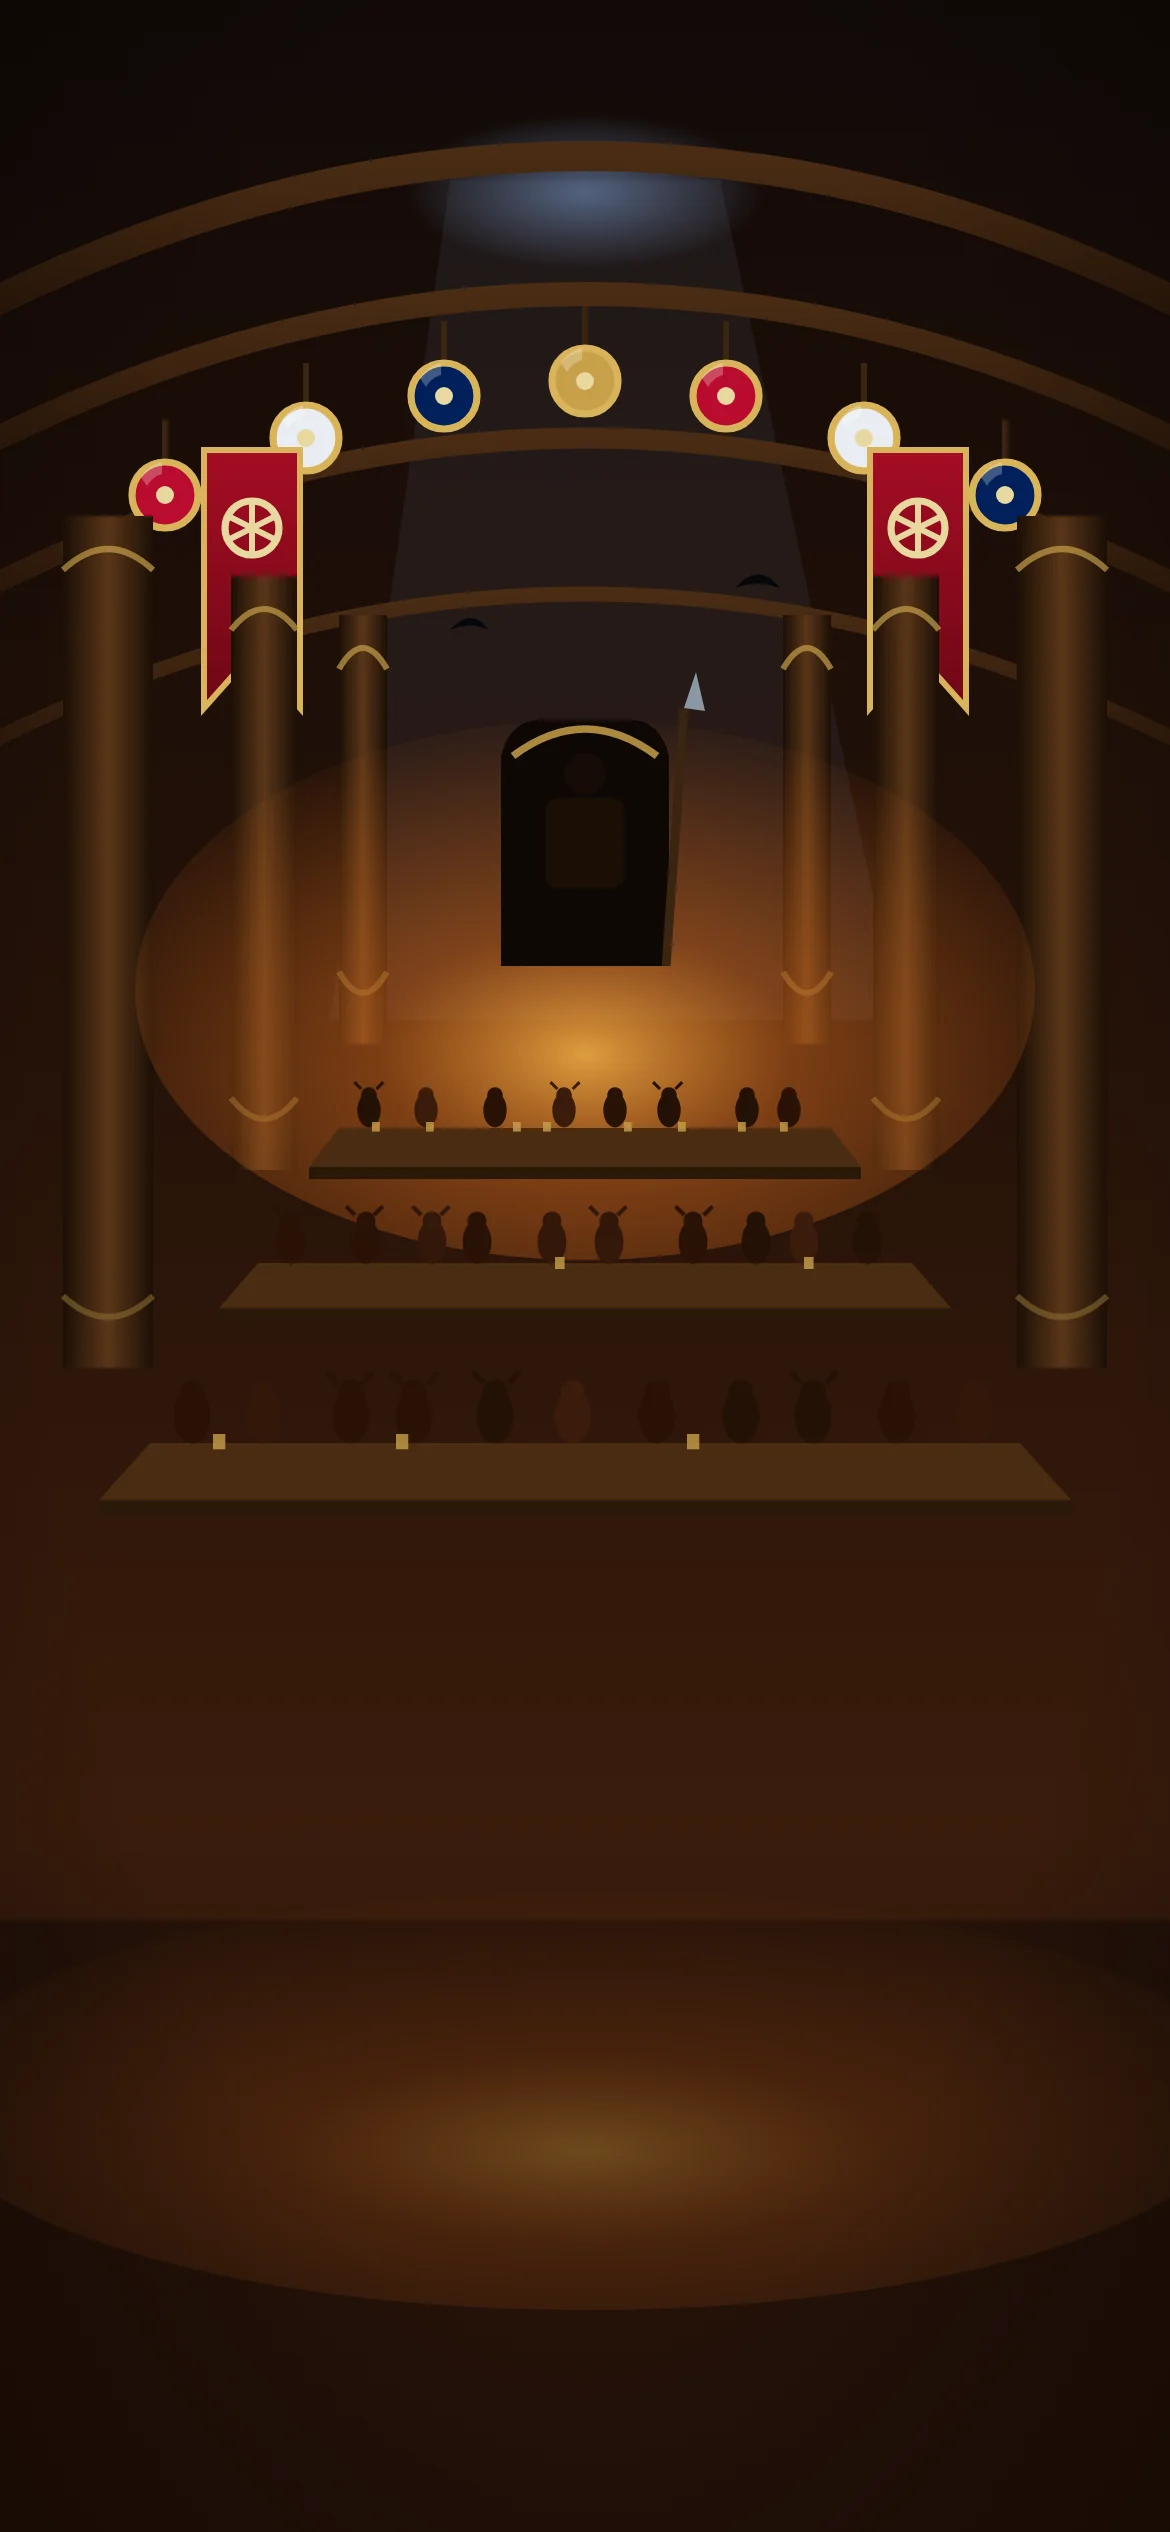
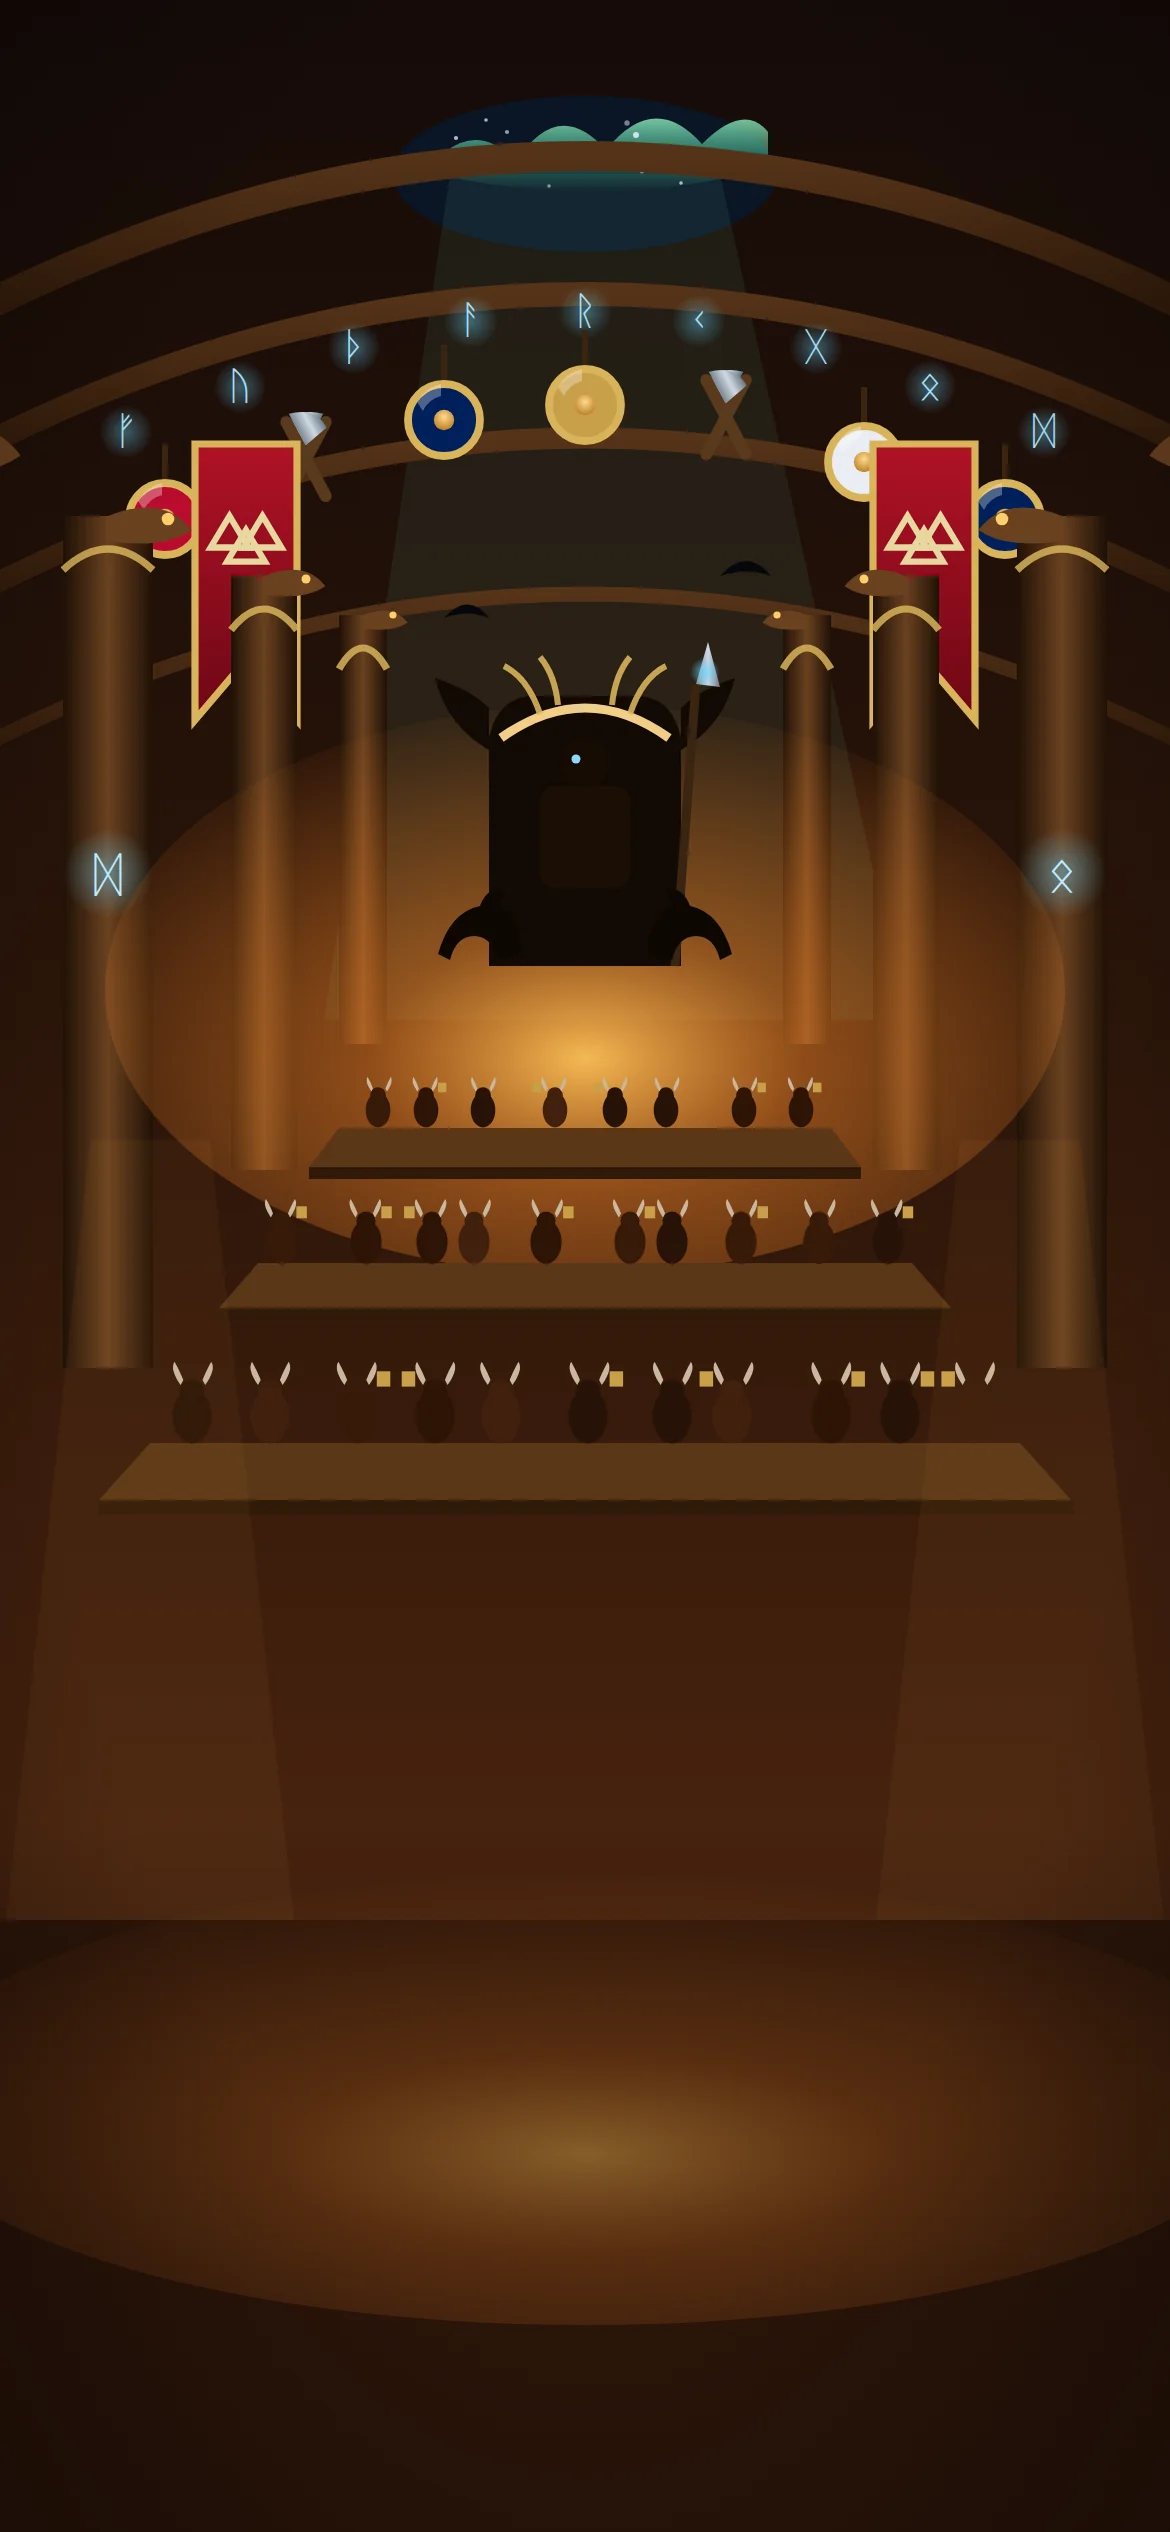
Valhalla art pass: full viking crowd + richer mythic hall
Crowd (stage 9 only, via einherjar overrides in the shared builder):
steel horned helmets on ~2/3 of figures (horns drawn through the ear
slots), painted beards in blond/red/brown, fur collars instead of team
scarves, cloaks in deep red/leather/iron palettes, and a raised axe in
every third warrior's hand.

Backdrop repainted: aurora visible through the smoke hole with its
green light shaft, glowing blue runes carved along the front rafter
and on the near pillars, dragon-head carvings atop every pillar,
valknut banners, alternating shields and crossed axes on the ridge,
Odin's high seat upgraded (winged sides, antler crown, glowing eye,
Gungnir with shining tip) flanked by wolf silhouettes, and every
feasting silhouette now wears a horned helmet, many raising tankards.

Claude-Session: https://claude.ai/code/session_01HkKDYMjB3bU4zVAuwpm9AS

diff --git a/www/index.html b/www/index.html
@@ -2635,6 +2635,29 @@ class Component extends DCLogic {
                 boxShadow:'0 1px 2px rgba(0,0,0,.4),inset 0 -3px 4px rgba(0,0,0,.3)',zIndex:z+3},
             pom:(hairKind===4)?{position:'absolute',left:leftPct.toFixed(2)+'%',bottom:'calc('+b.toFixed(1)+'% + '+(shH*0.6+hd*1.02).toFixed(1)+'px)',width:(hd*0.3).toFixed(1)+'px',height:(hd*0.3).toFixed(1)+'px',transform:'translateX(-50%)',borderRadius:'50%',background:'radial-gradient(circle at 38% 32%,#fff,#d9dee6)',zIndex:z+3}:{display:'none'}
           });
+          if(isStage9){
+            // Valhalla: turn this fan into an einherjar viking
+            const f=crowdFans[crowdFans.length-1];
+            const helm=((idx*7+ri)%6)<4;
+            const beard=((idx*3+ri)%5)!==0;
+            const bc=['#c9a15a','#a55a2a','#5a3d22','#8a5a30','#b3762e'][(idx*5+ri)%5];
+            const vikCloth=['#7a1622','#5a3a22','#455260','#6e5436','#8a2230','#4a3a28','#912631','#33404c'][idx%8];
+            f.shoulders.background='radial-gradient(circle at 50% 22%,color-mix(in srgb,'+vikCloth+' 74%,#fff 26%),'+vikCloth+' 58%,color-mix(in srgb,'+vikCloth+' 62%,#000))';
+            const vArm='linear-gradient(180deg,'+vikCloth+',color-mix(in srgb,'+vikCloth+' 55%,#000))';
+            f.armL.background=vArm; f.armR.background=vArm;
+            f.scarf.background='repeating-linear-gradient(90deg,#cbb9a0 0 '+(3*sc).toFixed(1)+'px,#9b8768 '+(3*sc).toFixed(1)+'px '+(6*sc).toFixed(1)+'px)';
+            f.scarf.height=(7*sc).toFixed(1)+'px'; f.scarf.borderRadius=(3*sc).toFixed(1)+'px';
+            if(beard){ f.head.background='radial-gradient(72% 46% at 50% 94%,color-mix(in srgb,'+bc+' 86%,#000) 56%,transparent 58%),'+f.head.background; }
+            if(helm){
+              f.hair={position:'absolute',left:leftPct.toFixed(2)+'%',bottom:'calc('+b.toFixed(1)+'% + '+(shH*0.6+hd*0.42).toFixed(1)+'px)',width:(hd*1.12).toFixed(1)+'px',height:(hd*0.62).toFixed(1)+'px',transform:'translateX(-50%)',borderRadius:(hd*0.56).toFixed(1)+'px '+(hd*0.56).toFixed(1)+'px '+(hd*0.16).toFixed(1)+'px '+(hd*0.16).toFixed(1)+'px',background:'linear-gradient(90deg,#6e7a86,#c3ced8 48%,#6e7a86)',boxShadow:'inset 0 -2px 3px rgba(0,0,0,.4),0 1px 2px rgba(0,0,0,.4),inset 0 2px 2px rgba(255,255,255,.35)',zIndex:z+3};
+              f.earL={position:'absolute',left:'calc('+leftPct.toFixed(2)+'% - '+(hd*0.74).toFixed(1)+'px)',bottom:'calc('+b.toFixed(1)+'% + '+(shH*0.6+hd*0.66).toFixed(1)+'px)',width:(hd*0.3).toFixed(1)+'px',height:(hd*0.64).toFixed(1)+'px',borderRadius:'60% 60% 30% 30%',background:'linear-gradient(180deg,#f2e8d0,#bfae90)',transform:'rotate(-26deg)',transformOrigin:'50% 100%',boxShadow:'inset -1px 0 1px rgba(0,0,0,.25)',zIndex:z+3};
+              f.earR={position:'absolute',left:'calc('+leftPct.toFixed(2)+'% + '+(hd*0.44).toFixed(1)+'px)',bottom:'calc('+b.toFixed(1)+'% + '+(shH*0.6+hd*0.66).toFixed(1)+'px)',width:(hd*0.3).toFixed(1)+'px',height:(hd*0.64).toFixed(1)+'px',borderRadius:'60% 60% 30% 30%',background:'linear-gradient(180deg,#f2e8d0,#bfae90)',transform:'rotate(26deg)',transformOrigin:'50% 100%',boxShadow:'inset 1px 0 1px rgba(0,0,0,.25)',zIndex:z+3};
+              f.pom={display:'none'};
+            }
+            if(idx%3===0){
+              f.pom={position:'absolute',left:'calc('+leftPct.toFixed(2)+'% + '+(shW*0.40+al*0.36-4.5*sc).toFixed(1)+'px)',bottom:'calc('+b.toFixed(1)+'% + '+(shH*0.55+al*0.9+hr*0.8).toFixed(1)+'px)',width:(9*sc).toFixed(1)+'px',height:(14*sc).toFixed(1)+'px',background:'linear-gradient(180deg,#9aa5b1 0 30%,#5f9eaa 30% 32%,#6b4a2a 32%)',clipPath:'polygon(0 0,100% 0,100% 30%,62% 30%,62% 100%,38% 100%,38% 30%,0 30%)',transform:'rotate(12deg)',boxShadow:'0 1px 2px rgba(0,0,0,.4)',zIndex:z+3};
+            }
+          }
           idx++;
         }
       });
